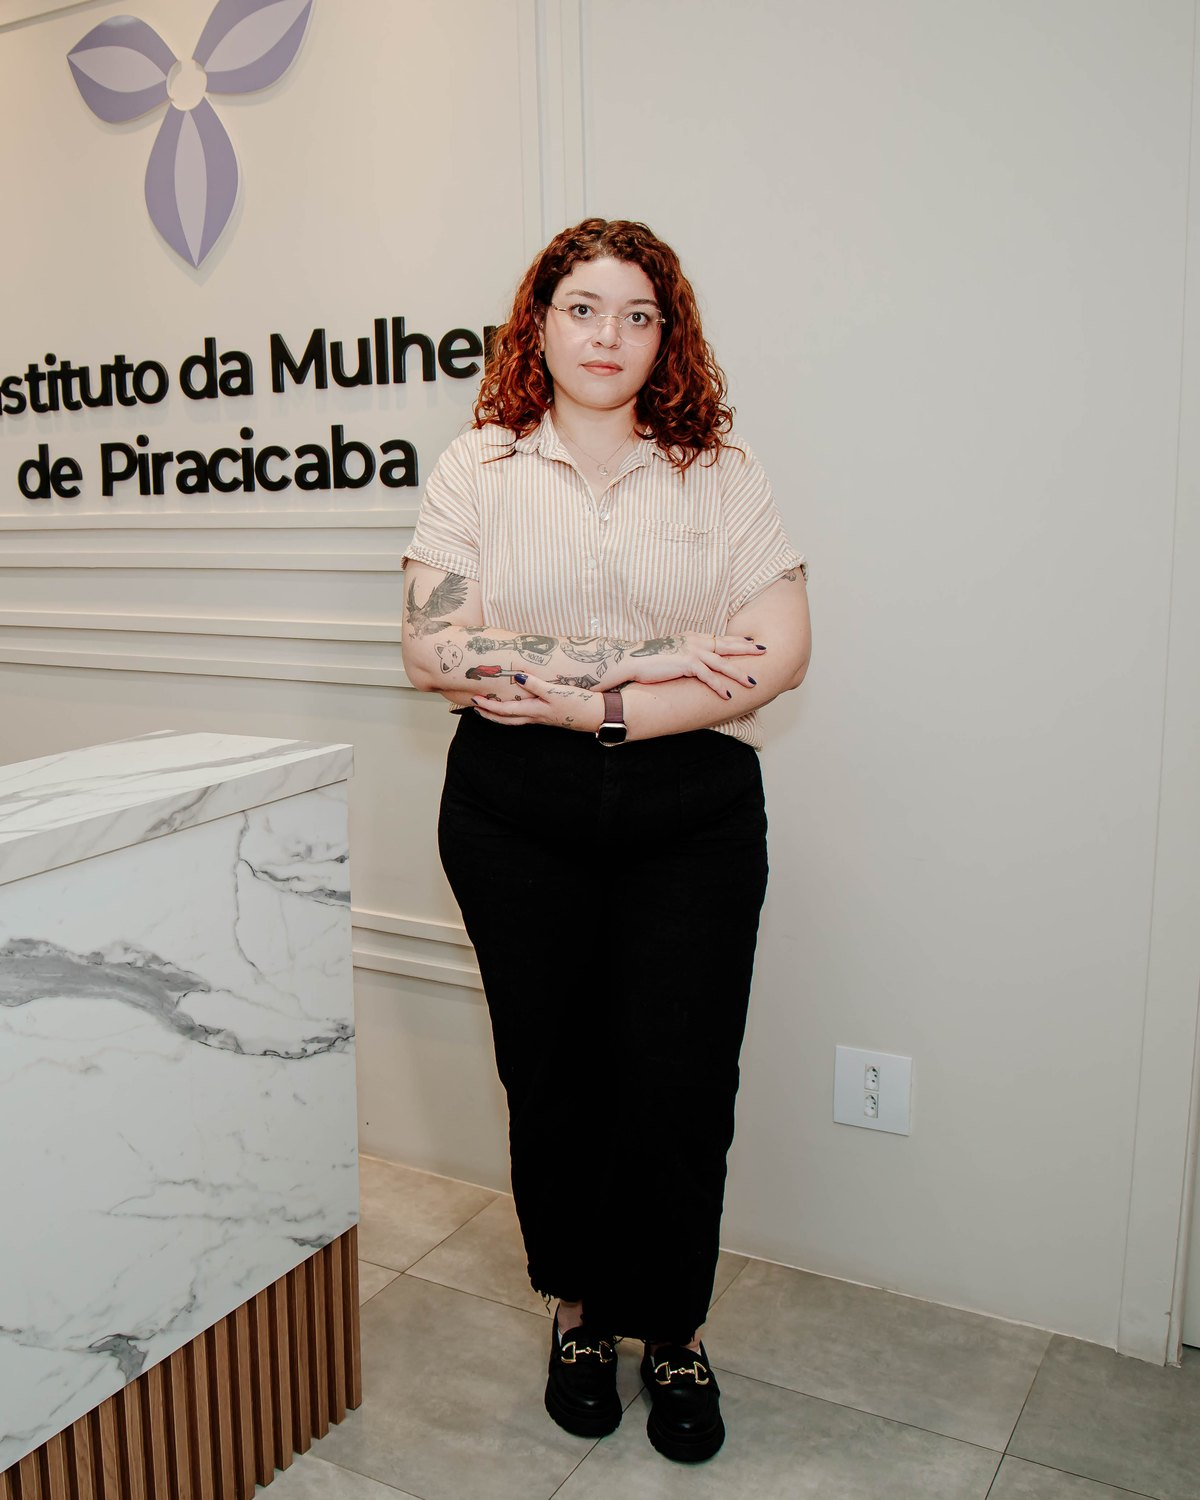
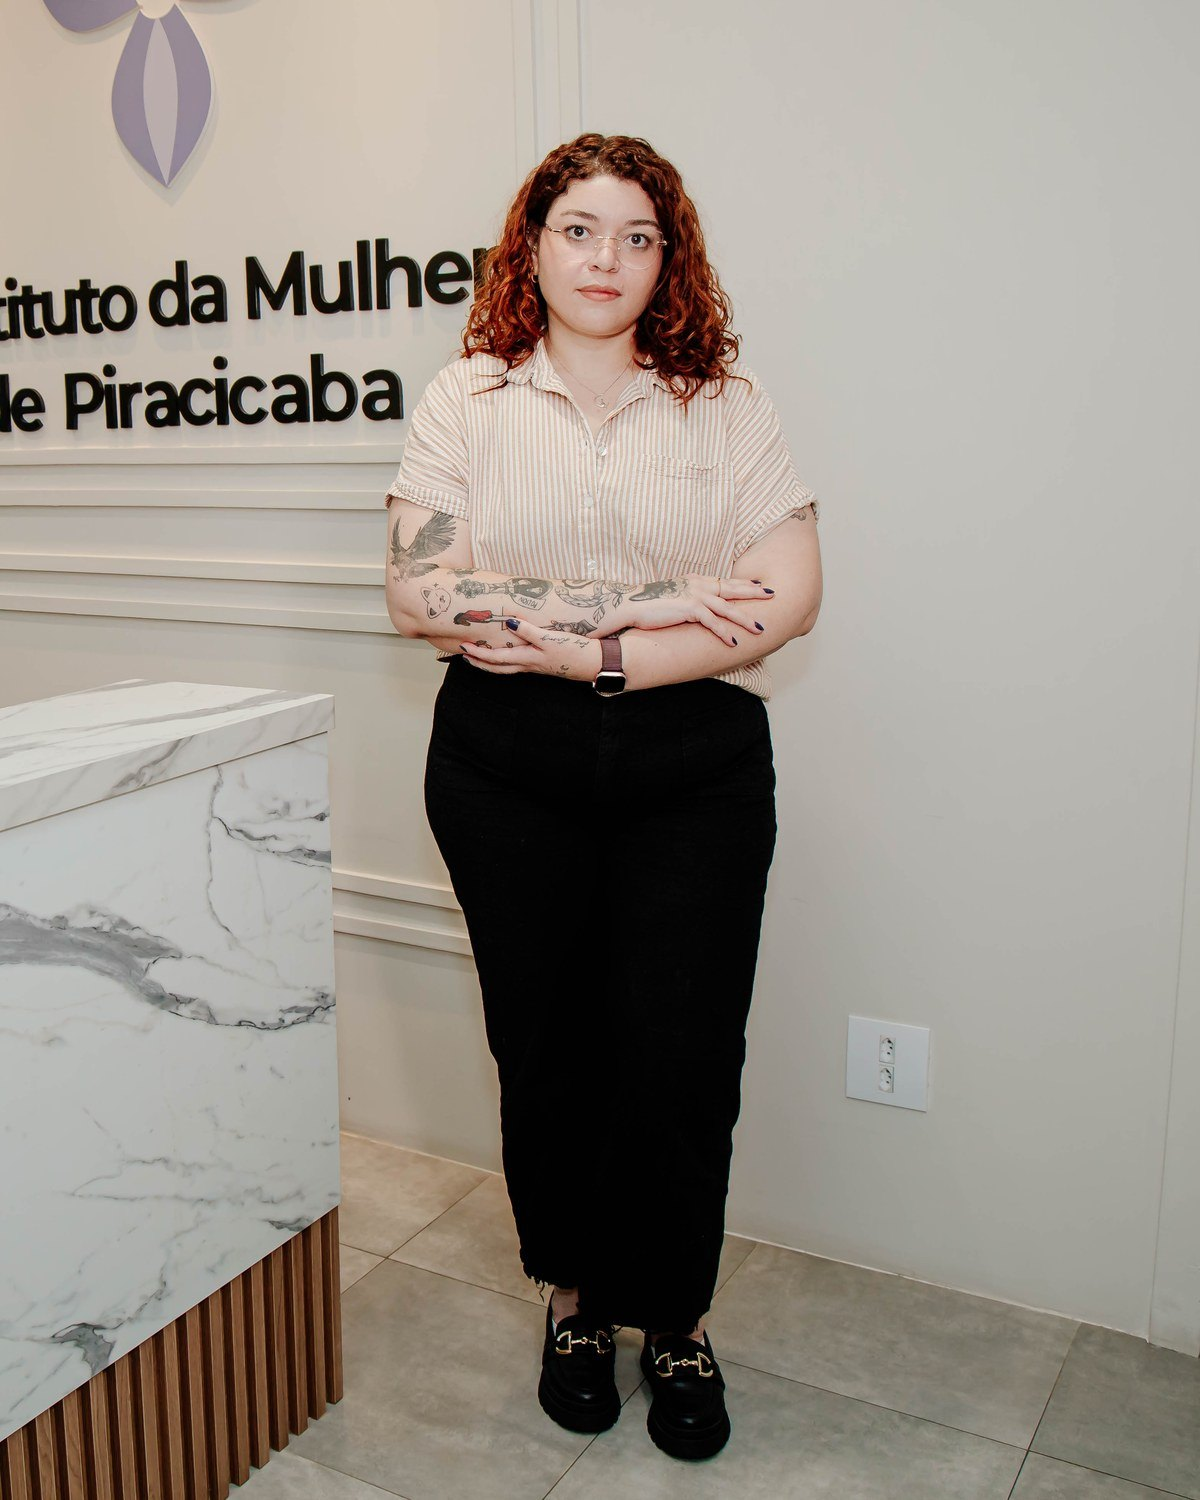
Aproxima e centraliza as fotos da equipe nos cards e na apresentação
Recorta as fotos mais perto de cada profissional e usa enquadramento
vertical nos cards e na janela "Conhecer", ocupando toda a largura no
celular.

diff --git a/app/globals.css b/app/globals.css
@@ -88,8 +88,8 @@ button { cursor: pointer; }
 .professionals-grid .professional-card:nth-child(n + 3) { grid-column: span 2; }
 .professional-card { background: #fff; border: 1px solid #e8def9; border-radius: 22px; box-shadow: 0 10px 28px rgba(47, 28, 84, .07); overflow: hidden; transition: box-shadow .25s ease, transform .25s ease; }
 .professional-card:hover { box-shadow: 0 20px 38px rgba(59, 42, 94, .14); transform: translate3d(0, calc(var(--parallax-y, 0px) - 5px), 0); }
-.professional-photo { height: 322px; overflow: hidden; position: relative; }
-.professional-photo img { object-fit: cover; object-position: center 27%; }
+.professional-photo { aspect-ratio: 4 / 5; overflow: hidden; position: relative; }
+.professional-photo img { object-fit: cover; object-position: center top; }
 .professional-card-copy { padding: 22px 22px 24px; }
 .professional-card-copy h3 { color: var(--ink); font-size: 21px; letter-spacing: -.04em; line-height: 1.15; margin: 0; }
 .professional-role { color: #633fa9; font-size: 15px; font-weight: 750; margin: 11px 0 0; text-transform: uppercase; }
@@ -103,7 +103,7 @@ button { cursor: pointer; }
 .professional-modal-panel { background: #fff; border-radius: 26px; box-shadow: 0 30px 80px rgba(28, 18, 48, .35); display: grid; grid-template-columns: .9fr 1.1fr; max-height: calc(100vh - 48px); max-width: 920px; overflow: hidden; position: relative; transform: translateY(14px) scale(.98); transition: transform .28s ease; width: 100%; }
 .professional-modal.is-visible .professional-modal-panel { transform: none; }
 .professional-modal-photo { min-height: 460px; position: relative; }
-.professional-modal-photo img { object-fit: cover; object-position: center 27%; }
+.professional-modal-photo img { object-fit: cover; object-position: center top; }
 .professional-modal-copy { overflow-y: auto; padding: 40px 38px 36px; }
 .professional-modal-copy .professional-role { margin: 0; }
 .professional-modal-copy h3 { color: var(--ink); font-size: 30px; letter-spacing: -.045em; line-height: 1.1; margin: 8px 0 0; }
@@ -216,7 +216,7 @@ button { cursor: pointer; }
   .hero-actions { align-items: center; flex-direction: column; gap: 16px; }
   .specialties-grid { grid-template-columns: 1fr; margin-top: 32px; }
   .professionals-grid { grid-template-columns: 1fr; margin-top: 32px; }
-  .professional-photo { height: 330px; }
+  .professional-photo { aspect-ratio: auto; height: min(72vh, 125vw); width: 100%; }
   .specialty-card { min-height: 0; }
   .story-layout, .care-section, .contact-card { grid-template-columns: 1fr; }
   .story-layout, .care-section { gap: 40px; }
@@ -230,7 +230,7 @@ button { cursor: pointer; }
   .gallery-highlights .gallery-quote { font-size: 17px; }
   .professional-modal { align-items: flex-end; padding: 0; }
   .professional-modal-panel { border-radius: 24px 24px 0 0; display: block; max-height: 92vh; overflow-y: auto; }
-  .professional-modal-photo { height: 300px; min-height: 0; }
+  .professional-modal-photo { height: min(62vh, 125vw); min-height: 0; width: 100%; }
   .professional-modal-copy { overflow: visible; padding: 26px 22px 32px; }
   .professional-modal-copy h3 { font-size: 25px; }
   .gallery-grid { gap: 10px; grid-template-columns: 1fr 1fr; margin-top: 29px; }
